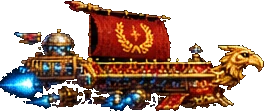
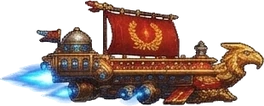
Legio Stellaris: new side-view warship and effect sprites
- Side-view ship (ps0-3) from the new boost-thrust frames; side hit
  shows the new explosion (psa0), then the burning wreck (psa4).
- New shockwave rings, explosions, Tesla bolt and charge beam, power-up
  pickups and enemy shots, each sized to the old sprite so gameplay and
  hitboxes are unchanged.
- Image loads cache-busted (?v=6) so the new art shows immediately.

Claude-Session: https://claude.ai/code/session_01T4Ncn1TLi39LZCyjUJH1gr

diff --git a/stars/game.js b/stars/game.js
@@ -7,7 +7,7 @@ const C = document.getElementById('game');
 const ctx = C.getContext('2d');
 const IMG = {};
 let loadedCount = 0, assetTotal = Object.keys(ASSETS).length;
-for (const k in ASSETS) { const im = new Image(); im.onload = () => { loadedCount++; }; im.src = ASSETS[k]; IMG[k] = im; }
+for (const k in ASSETS) { const im = new Image(); im.onload = () => { loadedCount++; }; im.src = ASSETS[k] + '?v=6'; IMG[k] = im; }
 
 // ---------- utils ----------
 const rnd = (a, b) => a + Math.random() * (b - a);
@@ -1063,7 +1063,7 @@ function drawFx() {
     else if (f.k === 'spawn') draw('spawn' + Math.min(2, Math.floor(f.t / 0.17)), f.x, f.y, f.sc, 0, 1, true);
     else if (f.k === 'emp') { const rad = f.t / 0.9 * 900; ctx.save(); ctx.globalCompositeOperation = 'lighter'; for (const [r, w, a] of [[rad, 10, 0.5], [rad * 0.85, 4, 0.7], [rad * 0.6, 2, 0.4]]) { ctx.strokeStyle = `rgba(120,200,255,${a * (1 - f.t / 0.9)})`; ctx.lineWidth = w; ctx.beginPath(); ctx.arc(f.x, f.y, r, 0, 7); ctx.stroke(); } ctx.restore(); }
     else if (f.k === 'ring') { const rad = f.t / 0.7 * 300; draw('ring3', f.x, f.y, rad * 2 / 99, f.t * 2, 1 - f.t / 0.7, true); }
-    else if (f.k === 'wreck') draw(f.t < 0.3 ? (view() === 'side' ? 'psa4' : 'pvhit') : (view() === 'side' ? 'psa4' : 'pvwreck'), f.x, f.y + f.t * 30, view() === 'side' ? 0.55 : 0.52, f.t * 0.6, Math.max(0, 1 - f.t / 1.2));
+    else if (f.k === 'wreck') draw(f.t < 0.3 ? (view() === 'side' ? 'psa0' : 'pvhit') : (view() === 'side' ? 'psa4' : 'pvwreck'), f.x, f.y + f.t * 30, view() === 'side' ? 0.55 : 0.52, f.t * 0.6, Math.max(0, 1 - f.t / 1.2));
     else if (f.k === 'text') { ctx.font = '12px "Space Mono", monospace'; ctx.textAlign = 'center'; ctx.fillStyle = `rgba(255,226,140,${1 - f.t / 0.9})`; ctx.fillText(f.txt, f.x, f.y - f.t * 30); }
   }
 }

diff --git a/stars/index.html b/stars/index.html
@@ -9,7 +9,7 @@
   <title>Legio Stellaris · A Roman Space Shooter by Marcos Garcia</title>
   <meta name="description" content="Rise from lowly Star Fighter to Imperator. A Roman space shooter in eight levels, each a side-scrolling assault followed by a Galaga-style forward assault. Free, in your browser.">
   <link rel="stylesheet" href="../fonts.css">
-  <link rel="stylesheet" href="game.css?v=5">
+  <link rel="stylesheet" href="game.css?v=6">
 </head>
 <body>
 <div id="stage">
@@ -33,6 +33,6 @@
   <span><b>1/Shift</b> barrel roll</span><span><b>2</b> missile strike</span><span><b>3</b> drone attack</span><span><b>4/X</b> EMP</span><span><b>5</b> Tesla chain strike</span>
   <span><b>P</b> pause</span><span><b>M</b> sound</span>
 </div>
-<script src="game.js?v=5"></script>
+<script src="game.js?v=6"></script>
 </body>
 </html>
